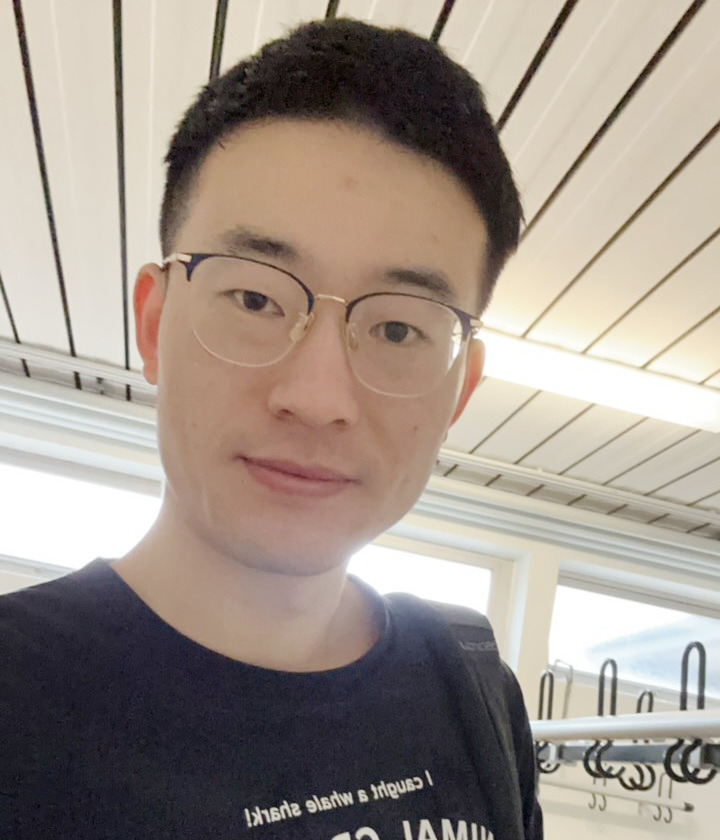
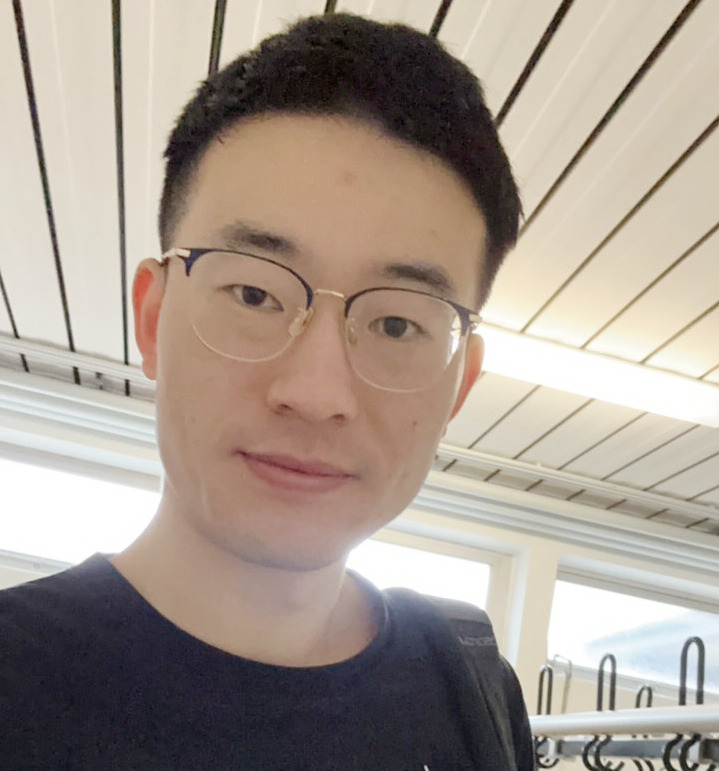
rename

diff --git a/_pages/about.md b/_pages/about.md
@@ -9,7 +9,7 @@ subtitle: >
 
 profile:
   align: right
-  image: xufeng2.jpg
+  image: xufeng.jpg
   image_circular: true # crops the image to make it circular
   address: >
 
